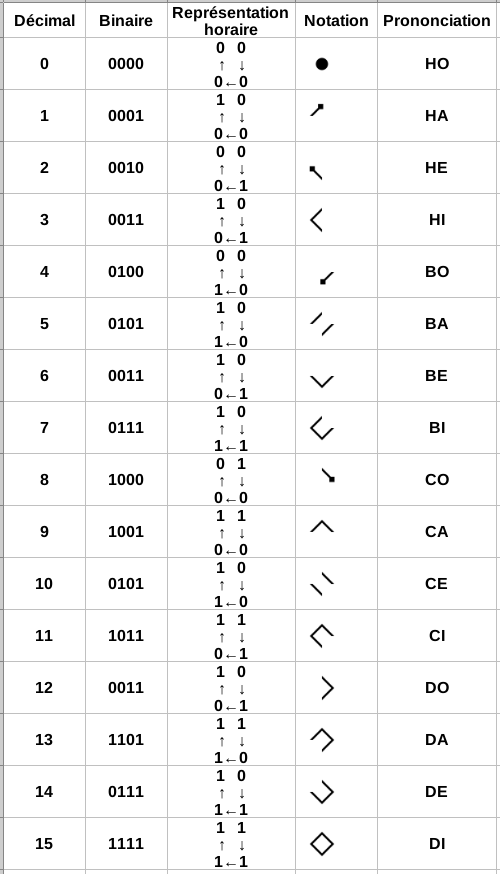
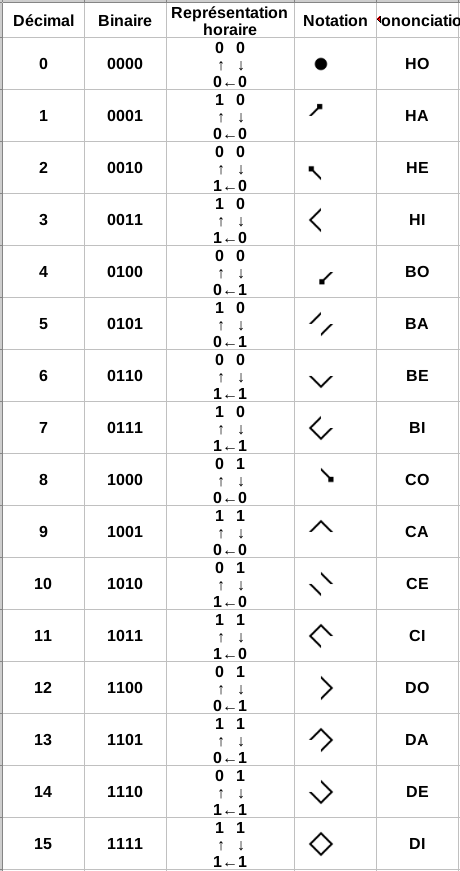
oups

diff --git a/pyUtils/boby.py b/pyUtils/boby.py
@@ -90,7 +90,7 @@ def decToStrSquare(dec):
 	sqS = ''
 	sqS += s[3]+'   '+s[0]+'\n'
 	sqS += asciiArrows[1]+'   '+asciiArrows[4]+'\n'
-	sqS += s[1]+ asciiArrows[2] +s[2]
+	sqS += s[2]+ asciiArrows[2] +s[1]
 	return sqS
 	
 
